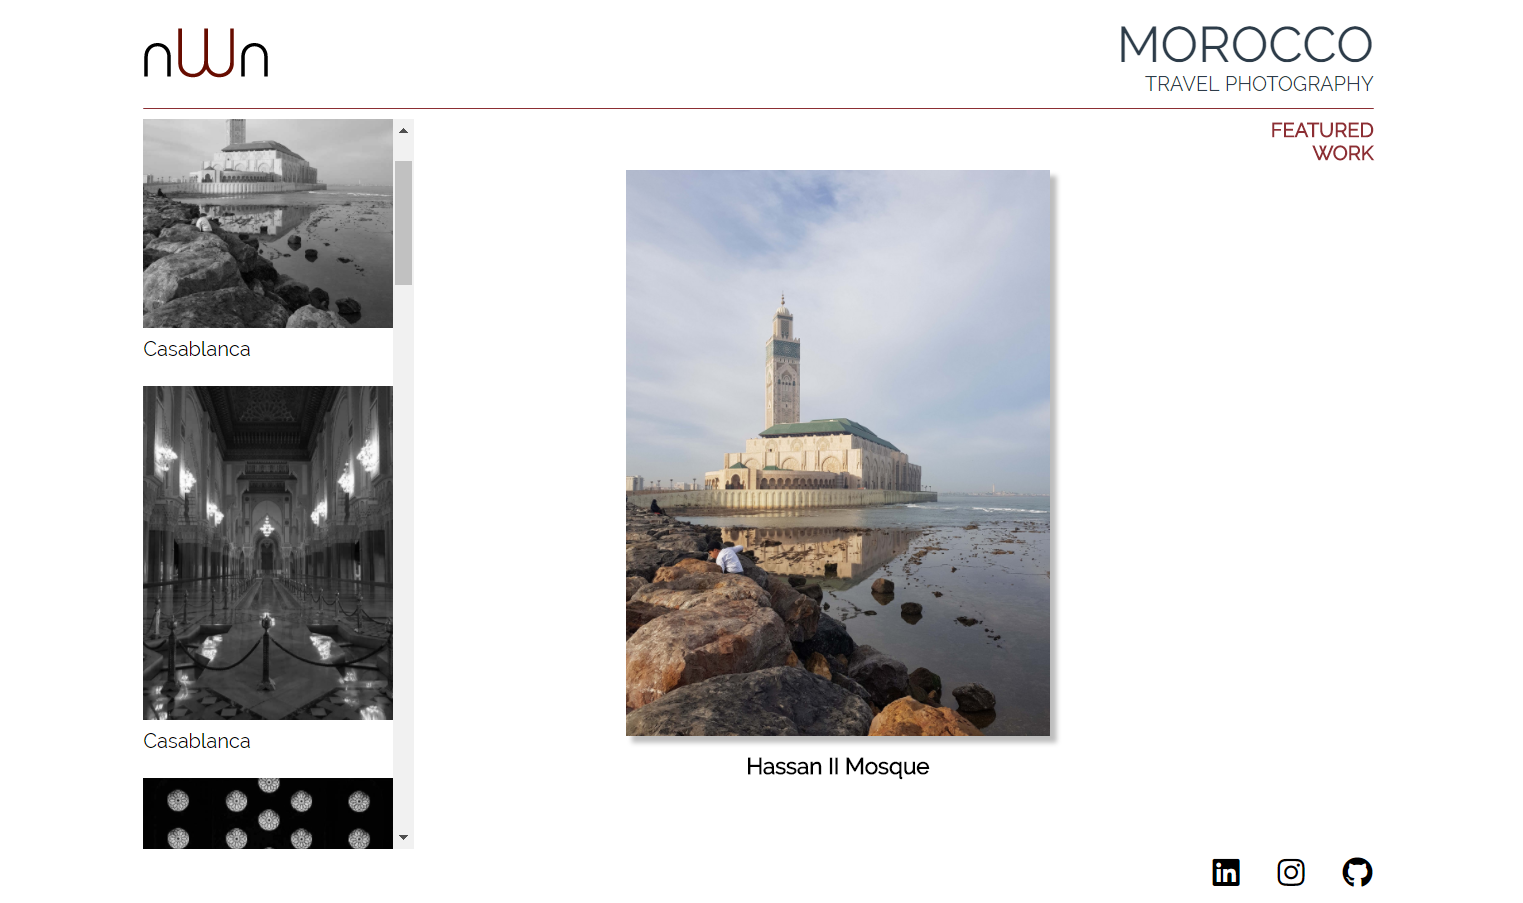
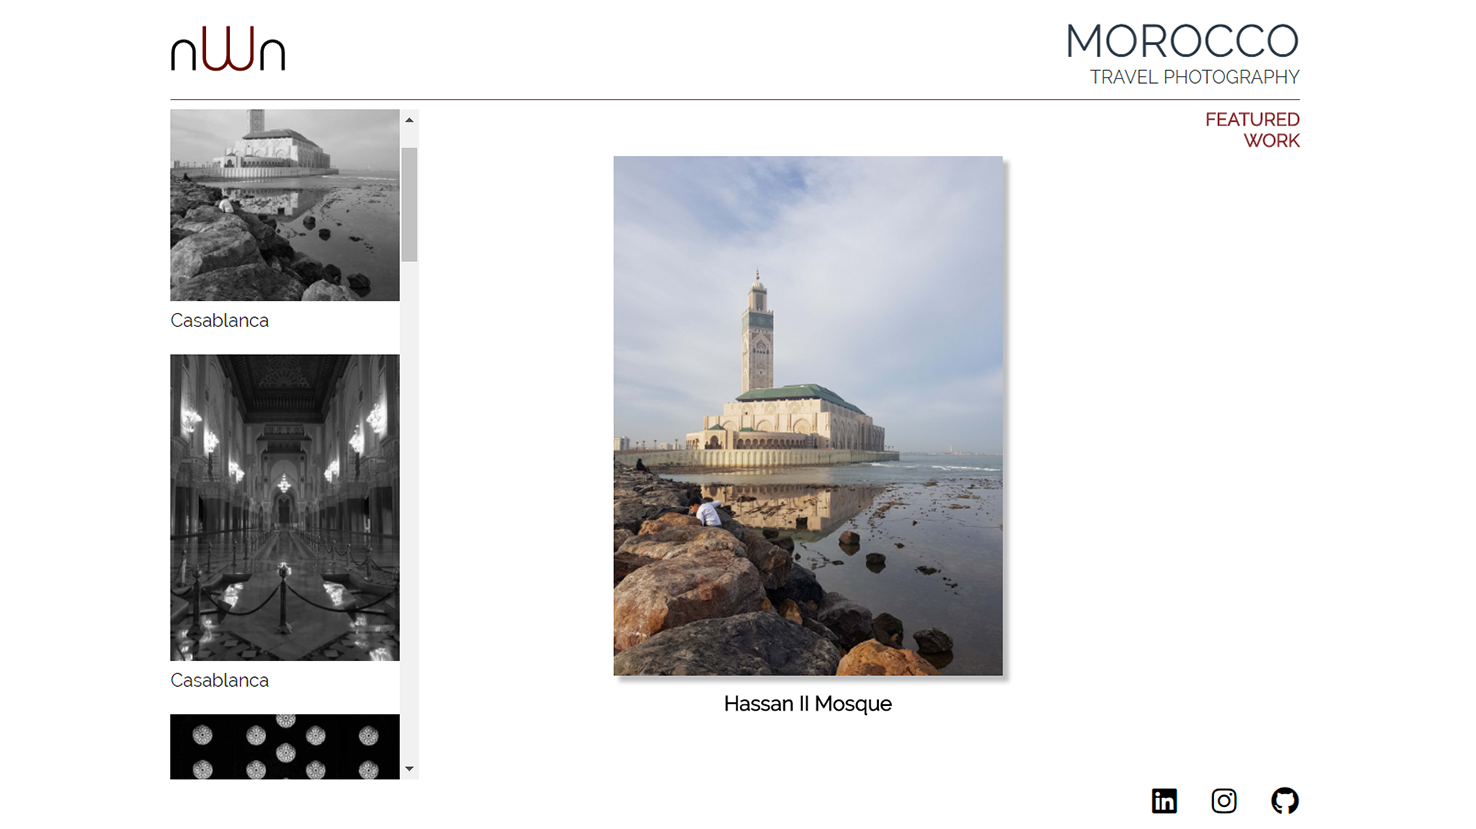
Change max screen 426 to 721

diff --git a/css/styles.css b/css/styles.css
@@ -424,7 +424,7 @@ footer ul li a {
 */
 
 /* Media query max 426px width */
-@media screen and (max-width: 426px) {
+@media screen and (max-width: 721px) {
     
     /* Main header */
     .main-header {
@@ -564,6 +564,7 @@ footer ul li a {
 
     .about-content {
         display: block;
+        padding-top: 0;
     }
 
     .column {
